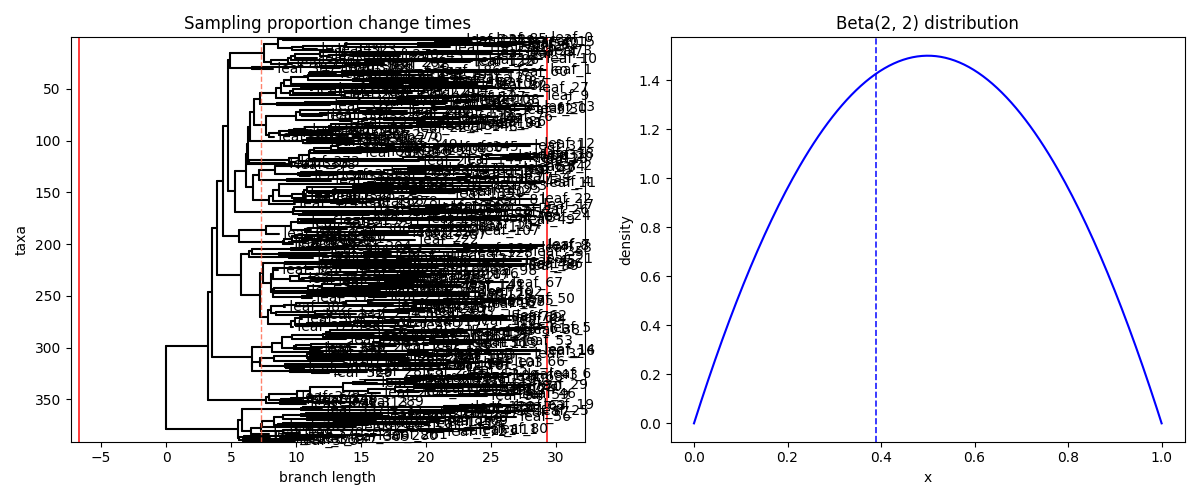
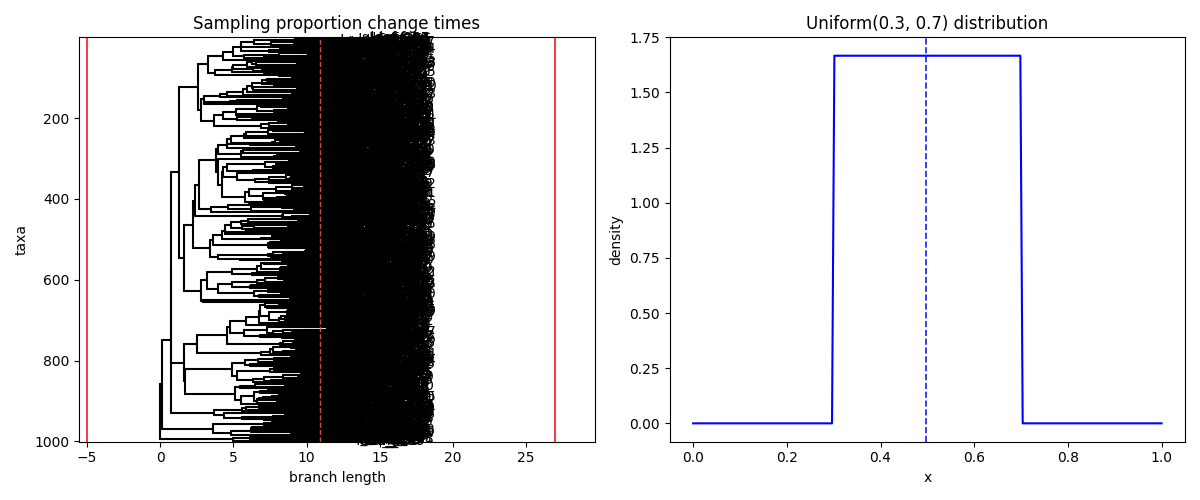
constrain the sample activation (proportional) times

diff --git a/src/demo-tree-sampling-prop.py b/src/demo-tree-sampling-prop.py
@@ -30,9 +30,9 @@ ax1.axvline(-mr_ca_time, color="red", linestyle="-", linewidth=1.2, alpha=0.9)
 ax1.axvline(epidemic_duration - mr_ca_time, color="red", linestyle="-", linewidth=1.2, alpha=0.9)
 
 x = np.linspace(0.0, 1.0, 200)
-beta_pdf = 6.0 * x * (1.0 - x)
-ax2.plot(x, beta_pdf, color="blue")
-ax2.set_title("Beta(2, 2) distribution")
+uniform_pdf = np.where((x >= 0.3) & (x <= 0.7), 1.0 / 0.6, 0.0)
+ax2.plot(x, uniform_pdf, color="blue")
+ax2.set_title("Uniform(0.3, 0.7) distribution")
 ax2.set_xlabel("x")
 ax2.set_ylabel("density")
 if sampling_prop_change_times.size > 0 and epidemic_duration != 0:

diff --git a/main.py b/main.py
@@ -186,7 +186,7 @@ def _rand_remaster_params_serial(p, hyperparams):
         if SPECIFIC_SAMPLING_ACTIVATION_TIME:
             activation_time = SAMPLING_ACTIVATION_TIME * p["epidemic_duration"]
         else:
-            activation_time = np.random.beta(2, 2, size = 1)[0] * p["epidemic_duration"]
+            activation_time = np.random.uniform(0.3, 0.7, size = 1)[0] * p["epidemic_duration"]
         change_times_arr = np.array([activation_time])
         p["sampling_prop"] = {
             "values": np.array([0.0, sampling_prop_values[0]]),
